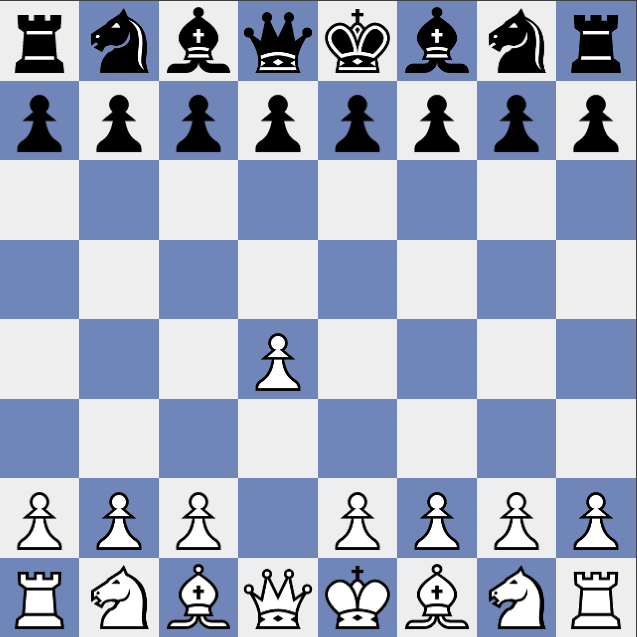
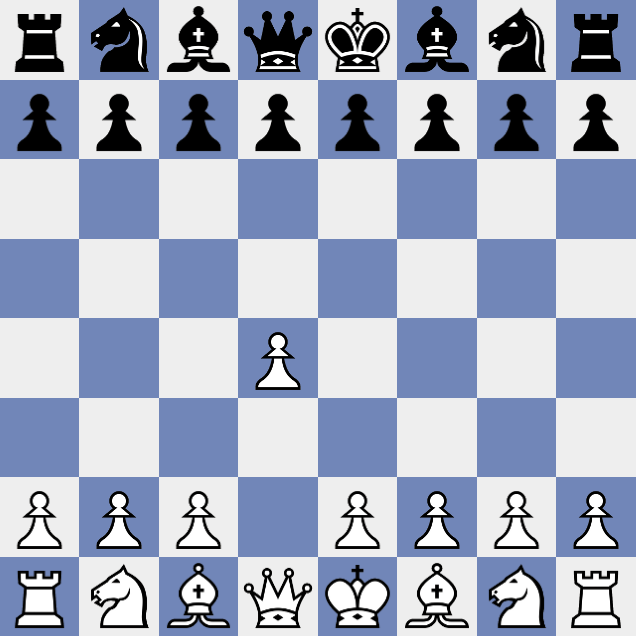
improve board, center text

diff --git a/index.html b/index.html
@@ -12,11 +12,21 @@
             <script src="script.js"></script>
         </div>
         <div>
-            <h2>The Knights' Tango is an opening by black in response to the Queen's Gambit</h2>
-            <h3>Opening Moves</h3>
-            <ol id="opening">
+            <h2 class="opening">The Knights' Tango is an opening by black in response to the Queen's Gambit</h2>
+            <h3 class="opening">Opening Moves</h3>
+            <ol id="moves">
                 <li>d4 Nf6</li>
                 <li>c4 Nc6</li>
+            </ol>
+            <h3 class="continuations">Possible Continuations</h3>
+            <ol class="continuations" start="3">
+                <li>Nf3</li>
+            </ol>
+            <ol class="continuations" start="3">
+                <li>Nc3</li>
+            </ol>
+            <ol class="continuations" start="3">
+                <li>d5</li>
             </ol>
         </div>
     </body>

diff --git a/script.js b/script.js
@@ -1,8 +1,17 @@
-var input = document.getElementById('board');
-input.addEventListener('click', moveForward)
+var image = document.getElementById('board');
+image.addEventListener('click', moveForward)
 
 function moveForward() {
-    if (input.src="Media/startingposition.png") {
+    var input = document.getElementById('board');
+    if (input.src.match("Media/startingposition.png")) {
+        input.src="Media/move1a.png";
+    } else if (input.src.match("Media/move1a.png")) {
+        input.src="Media/move1b.png";
+    } else if (input.src.match("Media/move1b.png")) {
+        input.src="Media/move2a.png";
+    } else if (input.src.match("Media/move2a.png")) {
         input.src="Media/move2b.png";
+    } else if (input.src.match("Media/move2b.png")) {
+        input.src="Media/startingposition.png";
     }
 }

diff --git a/style.css b/style.css
@@ -10,6 +10,22 @@ body {
 
 #board {
     width: 400px;
+    height: 400px;
     text-align: center;
     border: 3px solid #000;
+}
+
+.opening {
+    text-align: center;
+}
+.continuations {
+    text-align: center;
+    list-style-position: inside;
+    padding: 0px
+}
+
+#moves {
+    text-align: center;
+    list-style-position: inside;
+    padding: 0px
 }
